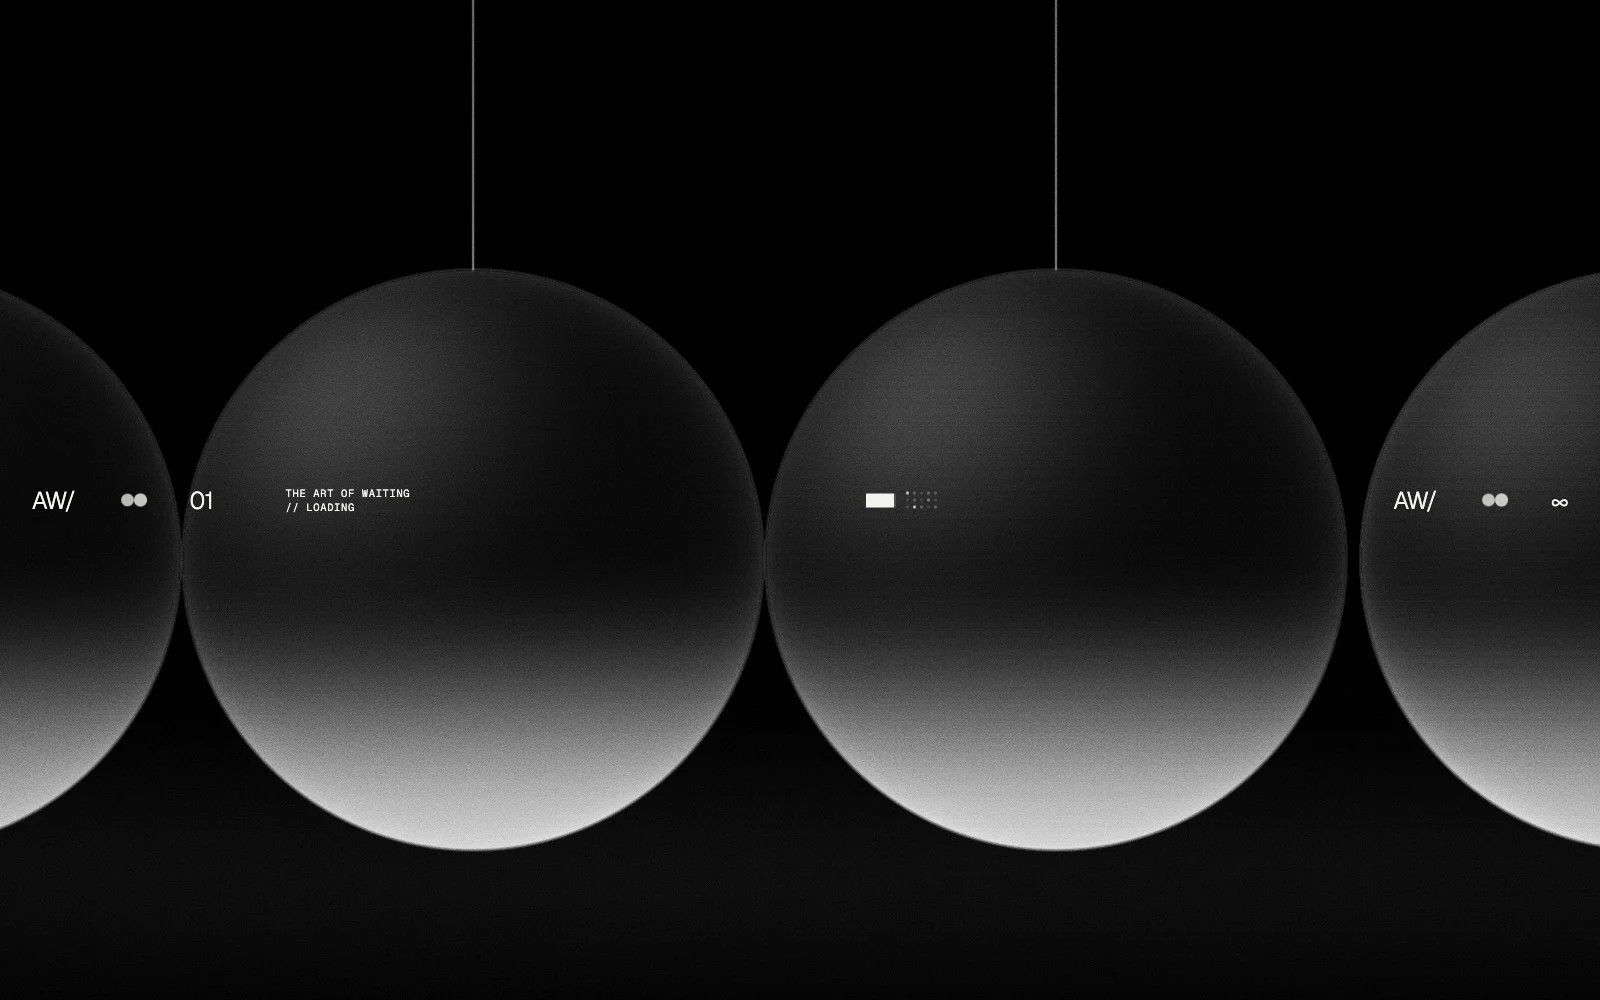
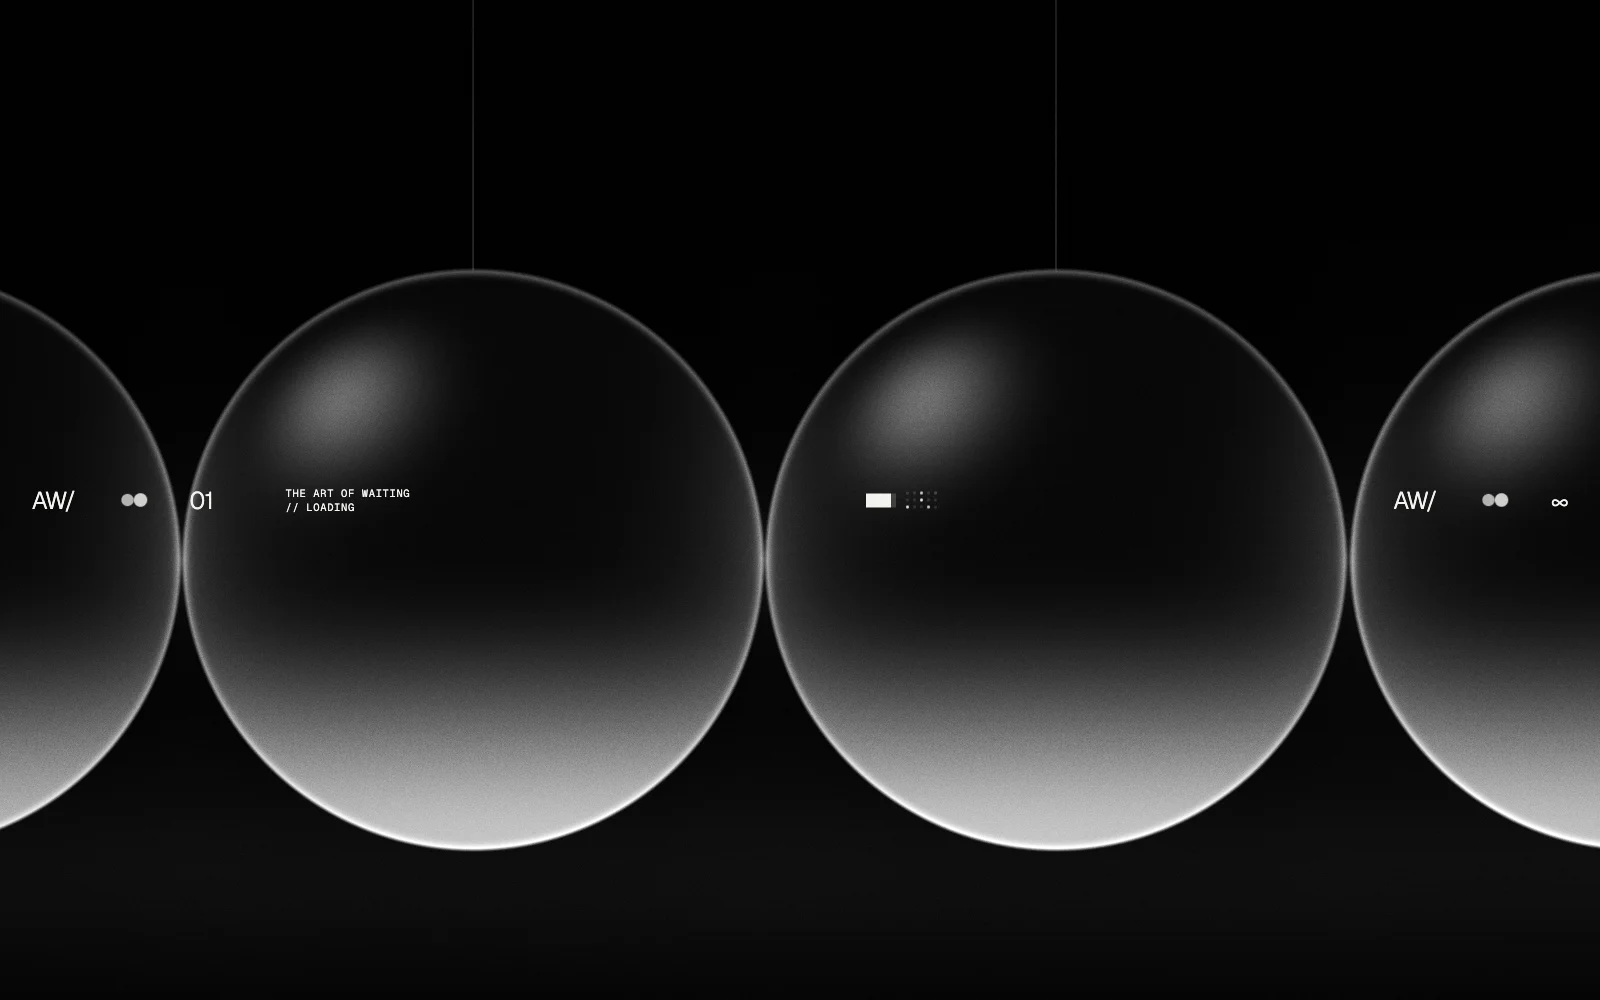
The Art of Waiting: new cover from the updated header; previews and link images use it

diff --git a/experiments/index.html b/experiments/index.html
@@ -7,7 +7,7 @@
 <meta name="description" content="Code and interactive animation experiments by Ariel Paz.">
 <meta property="og:title" content="Experiments · Ariel Paz">
 <meta property="og:description" content="Code and interactive animation experiments by Ariel Paz.">
-<meta property="og:image" content="https://threesteps.studio/experiments/art-of-waiting/cover.webp">
+<meta property="og:image" content="https://threesteps.studio/experiments/art-of-waiting/cover.webp?v=3">
 <meta property="og:type" content="website">
 <link rel="icon" type="image/png" href="/images/favicon-dark.png?v=3" media="(prefers-color-scheme: dark)">
 <link rel="icon" type="image/png" href="/images/favicon-light.png?v=3" media="(prefers-color-scheme: light)">
@@ -72,7 +72,7 @@
   <div class="lab-list">
     <!-- Newest first. To add one: put it in experiments/<name>/ and add a tile here (the first tile is the large one). -->
     <a class="lab-item lab-item--lead" href="art-of-waiting/">
-      <div class="lab-media lab-media--live"><span class="lab-tag lab-tag--new">New</span><img src="art-of-waiting/cover.webp?v=2" alt="The Art of Waiting: grey glowing spheres on black with the title rail"><iframe class="lab-live" data-src="art-of-waiting/?preview" title="The Art of Waiting, live preview" tabindex="-1" aria-hidden="true" scrolling="no"></iframe></div>
+      <div class="lab-media lab-media--live"><span class="lab-tag lab-tag--new">New</span><img src="art-of-waiting/cover.webp?v=3" alt="The Art of Waiting: grey glowing spheres on black with the title rail"><iframe class="lab-live" data-src="art-of-waiting/?preview" title="The Art of Waiting, live preview" tabindex="-1" aria-hidden="true" scrolling="no"></iframe></div>
       <div class="lab-meta"><h2>The Art of Waiting</h2><span class="mono">Code animations experiment</span></div>
       <p class="lab-desc">Eight WebGL loaders that react to your cursor.</p>
     </a>

diff --git a/experiments/art-of-waiting/index.html b/experiments/art-of-waiting/index.html
@@ -7,13 +7,13 @@
 <meta name="description" content="Eight WebGL loaders that react to your cursor. A code animations experiment by Ariel Paz.">
 <meta property="og:title" content="The Art of Waiting // Loading">
 <meta property="og:description" content="Eight WebGL loaders that react to your cursor. A code animations experiment by Ariel Paz.">
-<meta property="og:image" content="https://threesteps.studio/experiments/art-of-waiting/cover.webp?v=2">
+<meta property="og:image" content="https://threesteps.studio/experiments/art-of-waiting/cover.webp?v=3">
 <meta property="og:image:width" content="1600">
 <meta property="og:image:height" content="1000">
 <meta property="og:url" content="https://threesteps.studio/experiments/art-of-waiting/">
 <meta property="og:type" content="website">
 <meta name="twitter:card" content="summary_large_image">
-<meta name="twitter:image" content="https://threesteps.studio/experiments/art-of-waiting/cover.webp?v=2">
+<meta name="twitter:image" content="https://threesteps.studio/experiments/art-of-waiting/cover.webp?v=3">
 <link rel="icon" type="image/png" href="/images/favicon-dark.png?v=3" media="(prefers-color-scheme: dark)">
 <link rel="icon" type="image/png" href="/images/favicon-light.png?v=3" media="(prefers-color-scheme: light)">
 <link rel="preconnect" href="https://fonts.googleapis.com">

diff --git a/index.html b/index.html
@@ -269,7 +269,7 @@
       <!-- Experiments: one card for all code/interactive pieces. Its image is always the newest experiment. -->
       <a class="case rv" data-track="product" href="experiments/">
         <div class="case-shell"><div class="case-media case-media--exp"><span class="tag">Experiments · 4</span>
-          <img src="experiments/art-of-waiting/cover.webp?v=2" alt="The Art of Waiting, the newest experiment" loading="lazy">
+          <img src="experiments/art-of-waiting/cover.webp?v=3" alt="The Art of Waiting, the newest experiment" loading="lazy">
           <iframe class="exp-live" data-src="experiments/art-of-waiting/?preview" title="The Art of Waiting, live preview" tabindex="-1" aria-hidden="true" scrolling="no"></iframe>
           <span class="open"><svg class="arw" viewBox="0 0 12 12" aria-hidden="true"><path d="M3 9 9 3M4.5 3H9v4.5"/></svg></span></div></div>
         <div class="case-meta"><h3>Experiments</h3><span class="mono">WebGL · Claude Code</span></div>
